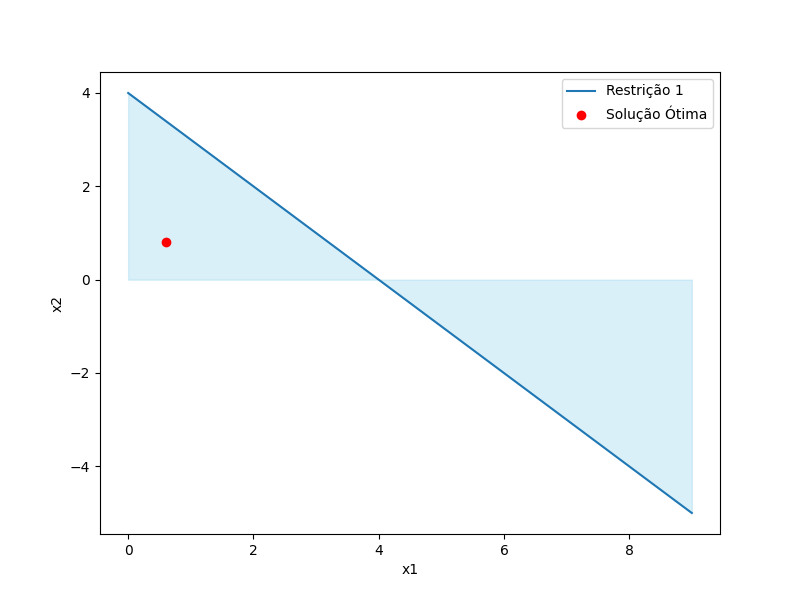
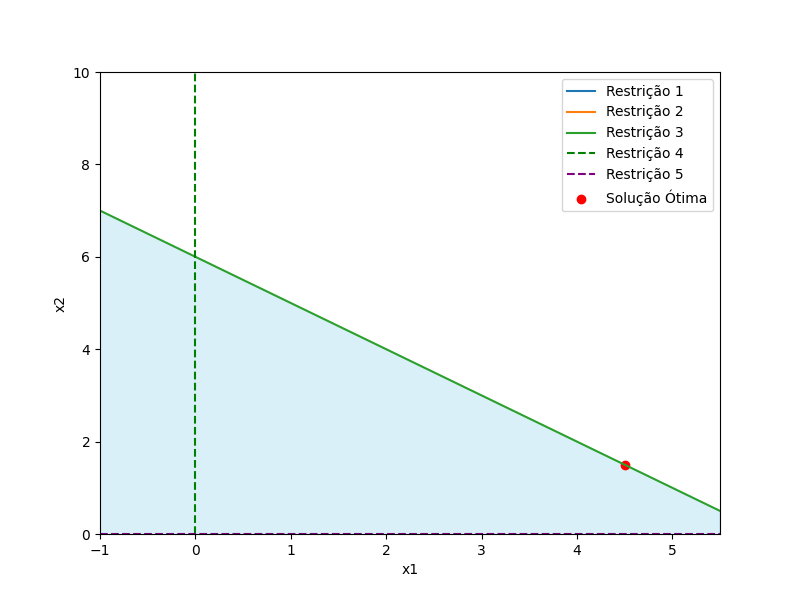
--tudo ok --tentando melhorar grafico --261224 --1250h

diff --git a/otimizacao/solver/views.py b/otimizacao/solver/views.py
@@ -1,3 +1,6 @@
+import matplotlib
+matplotlib.use('Agg')  # Backend adequado para renderizar gráficos em servidores
+
 from django.shortcuts import render
 from django.http import JsonResponse, FileResponse
 from pulp import LpProblem, LpVariable, LpMaximize, LpMinimize, lpSum
@@ -7,6 +10,7 @@ import json
 import re
 from django.middleware.csrf import get_token
 from pulp import value
+import numpy as np
 
 # View para renderizar a página inicial
 def index(request):
@@ -55,13 +59,17 @@ def optimize(request):
             # Função objetivo
             model += parse_expression(objectiveFunction, variables), 'Objective'
 
-            # Restrições
+            # Armazenar as restrições para o gráfico
+            constraint_lines = []
+
             for c in constraints:
                 match = re.match(r'(.+?)(<=|>=|=)(.+)', c.replace(' ', ''))
                 if match:
                     lhs = parse_expression(match.group(1), variables)
                     operator = match.group(2)
                     rhs = float(match.group(3))
+                    constraint_lines.append((match.group(1), operator, rhs))  # Salva para o gráfico
+
                     if operator == '<=':
                         model += lhs <= rhs
                     elif operator == '>=':
@@ -77,7 +85,10 @@ def optimize(request):
             optimal_point = [v.varValue for v in model.variables()]
             objective_result = value(model.objective)
 
-            # Geração do gráfico
+            # Determinar os limites do eixo X dinamicamente
+            x_min = min(optimal_point[0], 0) - 1  # Garantir uma margem
+            x_max = max(optimal_point[0], 0) + 1
+
             filepath = 'solver/static/graph.png'
             os.makedirs(os.path.dirname(filepath), exist_ok=True)
 
@@ -85,11 +96,44 @@ def optimize(request):
             plt.xlabel('x1')
             plt.ylabel('x2')
 
-            # Plotar espaço factível e ponto ótimo
-            x = range(0, 10)
-            y = [4 - xi for xi in x]  # Exemplo simplificado de restrição
-            plt.plot(x, y, label='Restrição 1')
-            plt.fill_between(x, 0, y, color='skyblue', alpha=0.3)
+            x = np.linspace(x_min, x_max, 100)  # Faixa ajustada para o eixo X
+
+            for i, (lhs, operator, rhs) in enumerate(constraint_lines):
+                try:
+                    # Garantir que lhs está formatado corretamente
+                    lhs = lhs.replace('x1', '*x').replace('x2', '*y').replace('--', '+').replace('+-', '-')
+
+                    if '*x' in lhs and '*y' in lhs:
+                        # Equação com x1 e x2
+                        def y_func(x_val):
+                            return (rhs - eval(lhs.replace('*x', str(x_val)).replace('*y', '0'))) / eval(
+                                lhs.replace('*x', '0').replace('*y', '1')
+                            )
+
+                        y_vals = [y_func(val) for val in x]
+                        plt.plot(x, y_vals, label=f'Restrição {i + 1}')
+                        if operator == '<=':
+                            plt.fill_between(x, -100, y_vals, color='skyblue', alpha=0.3)
+                        elif operator == '>=':
+                            plt.fill_between(x, y_vals, 100, color='lightcoral', alpha=0.3)
+
+                    elif '*x' in lhs and '*y' not in lhs:
+                        # Restrição dependente apenas de x1 (reta vertical)
+                        x_val = rhs / eval(lhs.replace('*x', '1'))
+                        plt.axvline(x=x_val, color='green', linestyle='--', label=f'Restrição {i + 1}')
+
+                    elif '*y' in lhs and '*x' not in lhs:
+                        # Restrição dependente apenas de x2 (reta horizontal)
+                        y_val = rhs / eval(lhs.replace('*y', '1'))
+                        plt.axhline(y=y_val, color='purple', linestyle='--', label=f'Restrição {i + 1}')
+                except Exception as e:
+                    print(f"Erro ao desenhar restrição {i + 1}: {e}")
+
+            # Ajustar limites do gráfico
+            plt.xlim(x_min, x_max)
+            plt.ylim(0, max(optimal_point[1] + 1, 10))  # Ajuste do eixo Y com margem
+
+            # Marcar ponto ótimo
             plt.scatter(optimal_point[0], optimal_point[1], color='red', label='Solução Ótima')
             plt.legend()
             plt.savefig(filepath)
@@ -105,7 +149,6 @@ def optimize(request):
             return JsonResponse({'error': str(ve)}, status=400)
         except Exception as e:
             return JsonResponse({'error': f"Erro inesperado: {str(e)}"}, status=500)
-
 
 # View para geração de gráficos
 def graph(request):
